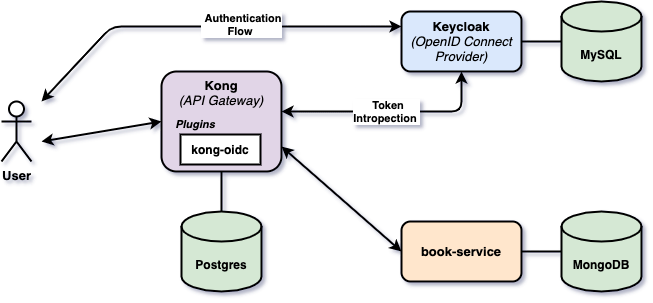
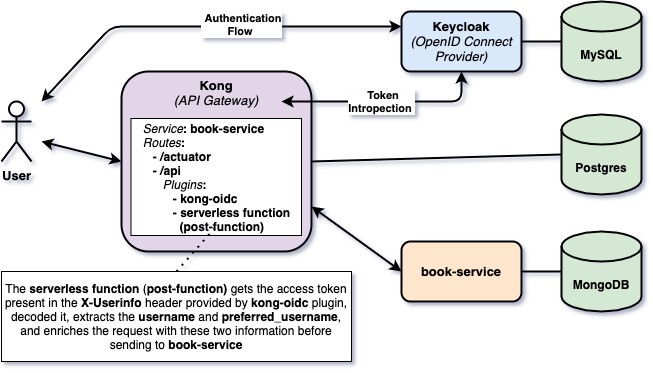
project update - add serverless function (post-function) that enriches the request that arrives to book-service; - remove decode logic in book-service; - update README.

diff --git a/book-service/src/main/java/com/mycompany/bookservice/rest/BookController.java b/book-service/src/main/java/com/mycompany/bookservice/rest/BookController.java
@@ -5,7 +5,6 @@ import com.mycompany.bookservice.model.Book;
 import com.mycompany.bookservice.rest.dto.BookResponse;
 import com.mycompany.bookservice.rest.dto.CreateBookRequest;
 import com.mycompany.bookservice.service.BookService;
-import com.mycompany.bookservice.service.UserInfoHeaderDecoder;
 import lombok.RequiredArgsConstructor;
 import lombok.extern.slf4j.Slf4j;
 import org.springframework.http.HttpStatus;
@@ -31,18 +30,17 @@ public class BookController {
 
     private final BookService bookService;
     private final BookMapper bookMapper;
-    private final UserInfoHeaderDecoder userInfoHeaderDecoder;
 
     @GetMapping
     public List<BookResponse> getBooks(HttpServletRequest request) {
-        log.info("Get books made by {}", getUsernameFromRequestHeaders(request));
+        log.info("Get books made by {}", request.getHeader("x-username"));
         List<Book> books = bookService.getBooks();
         return books.stream().map(bookMapper::toBookResponse).collect(Collectors.toList());
     }
 
     @GetMapping("/{isbn}")
     public BookResponse getBookByIsbn(@PathVariable String isbn, HttpServletRequest request) {
-        log.info("Get books with isbn equals to {} made by {}", isbn, getUsernameFromRequestHeaders(request));
+        log.info("Get books with isbn equals to {} made by {}", isbn, request.getHeader("x-username"));
         Book book = bookService.validateAndGetBookByIsbn(isbn);
         return bookMapper.toBookResponse(book);
     }
@@ -50,7 +48,7 @@ public class BookController {
     @ResponseStatus(HttpStatus.CREATED)
     @PostMapping
     public BookResponse createBook(@Valid @RequestBody CreateBookRequest createBookRequest, HttpServletRequest request) {
-        log.info("Request to create a book {} made by {}", createBookRequest, getUsernameFromRequestHeaders(request));
+        log.info("Request to create a book {} made by {}", createBookRequest, request.getHeader("x-username"));
         Book book = bookMapper.toBook(createBookRequest);
         book = bookService.saveBook(book);
         return bookMapper.toBookResponse(book);
@@ -58,15 +56,9 @@ public class BookController {
 
     @DeleteMapping("/{isbn}")
     public BookResponse deleteBook(@PathVariable String isbn, HttpServletRequest request) {
-        log.info("Request to remove book with isbn {} made by {}", isbn, getUsernameFromRequestHeaders(request));
+        log.info("Request to remove book with isbn {} made by {}", isbn, request.getHeader("x-username"));
         Book book = bookService.validateAndGetBookByIsbn(isbn);
         bookService.deleteBook(book);
         return bookMapper.toBookResponse(book);
-    }
-
-    private String getUsernameFromRequestHeaders(HttpServletRequest request) {
-        return userInfoHeaderDecoder.decode(request)
-                .map(UserInfoHeaderDecoder.UserInfo::getUsername)
-                .orElse("unknown");
     }
 }

diff --git a/README.md b/README.md
@@ -112,7 +112,7 @@ The goal is to create a [`Spring Boot`](https://docs.spring.io/spring-boot/docs/
   docker build -t kong:2.6.0-centos-oidc docker/kong
   ```
 
-## Start environment
+## Start Environment
 
 - In a terminal, make use you are in `springboot-kong-keycloak` root folder
 
@@ -164,7 +164,8 @@ The goal is to create a [`Spring Boot`](https://docs.spring.io/spring-boot/docs/
   - service to `book-service`
   - route to `/actuator` path
   - route to `/api` path
-  - add `kong-oidc` plugin to route of `/api` path
+  - add `kong-oidc` plugin to route of `/api` path. It will authenticate users against `Keycloak` OpenID Connect Provider
+  - add `serverless function (post-function)` plugin to route of `/api` path. It gets the access token present in the `X-Userinfo` header provided by `kong-oidc` plugin, decoded it, extracts the `username` and `preferred_username`, and enriches the request with these two information before sending to `book-service`
   
 - Try to call the public `GET /actuator/health` endpoint
   ```
@@ -206,12 +207,20 @@ The goal is to create a [`Spring Boot`](https://docs.spring.io/spring-boot/docs/
   ```
 
 - You can try other endpoints using access token
+
+  Create book
   ```
   curl -i -X POST http://localhost:8000/api/books -H 'Host: book-service' -H "Authorization: Bearer $ACCESS_TOKEN" \
     -H "Content-Type: application/json" -d '{"isbn": "123", "title": "Kong & Keycloak"}'
-    
+  ```
+  
+  Get book
+  ```
   curl -i http://localhost:8000/api/books/123 -H 'Host: book-service' -H "Authorization: Bearer $ACCESS_TOKEN"
-    
+  ```
+  
+  Delete book 
+  ```
   curl -i -X DELETE http://localhost:8000/api/books/123 -H 'Host: book-service' -H "Authorization: Bearer $ACCESS_TOKEN"
   ```
 
